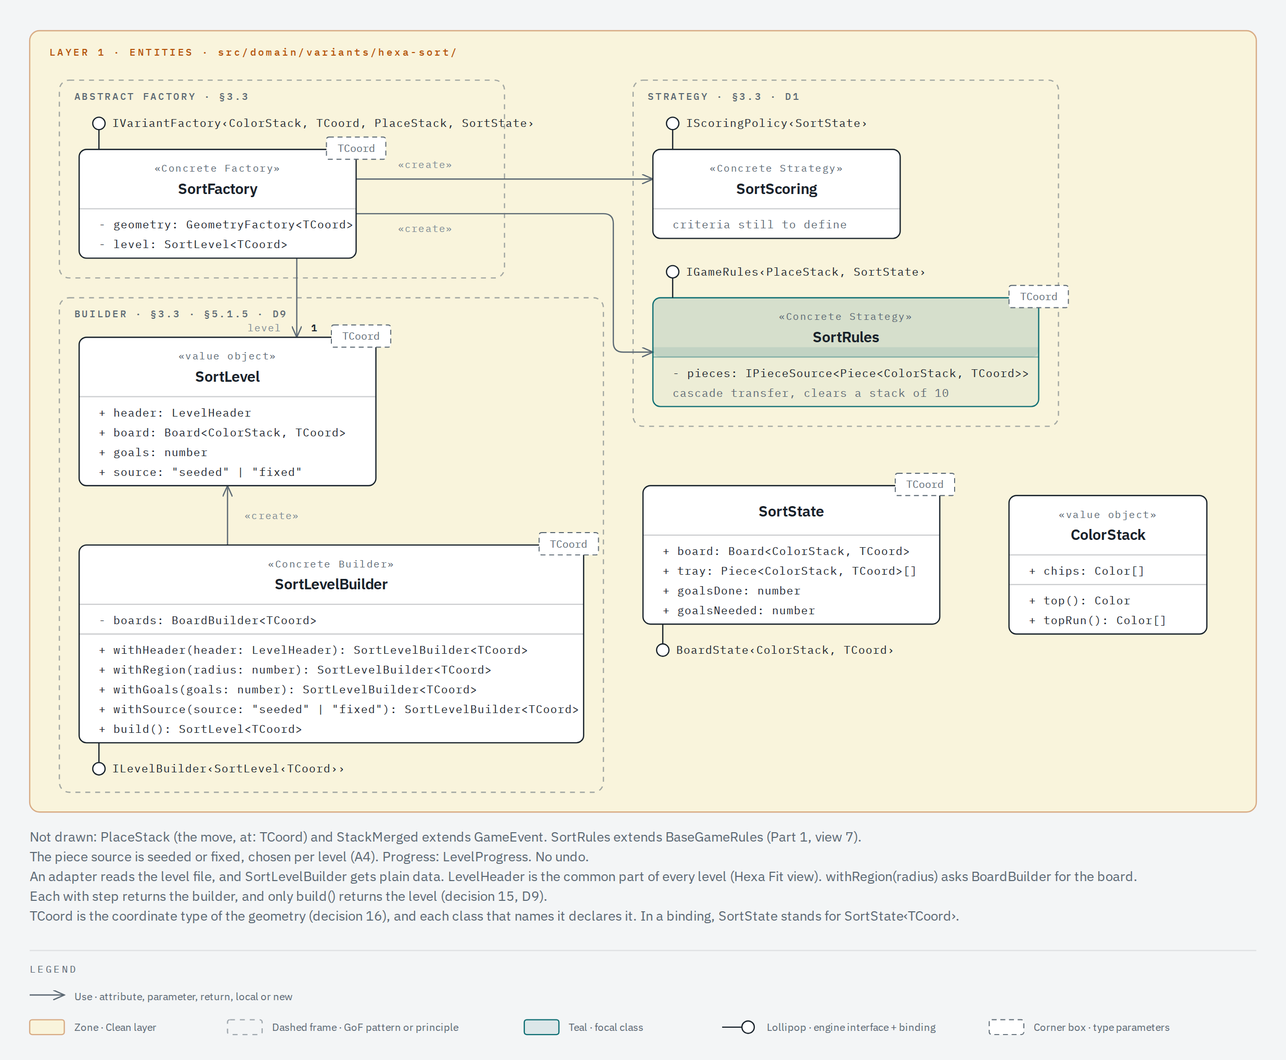
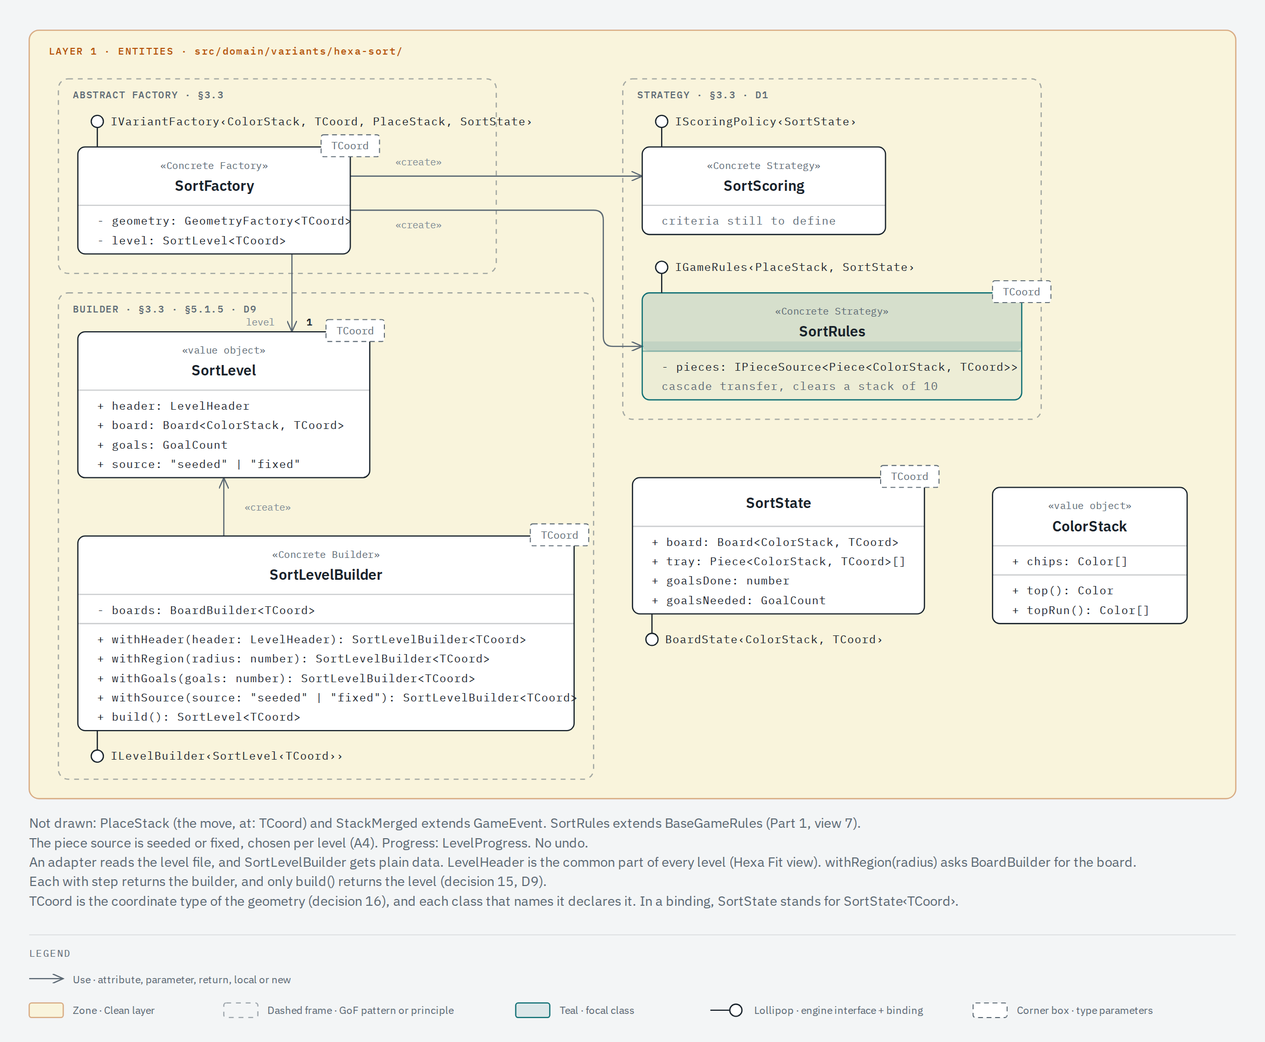
docs(architecture): record Range<T>, GoalCount and the engine Color
Decision 5 is now true in code, and decision 38 records Range<T> and GoalCount.
D21 and APP-NFR-25 state the goal and color rules. The Sort view types the goal
as GoalCount.

Closes #129

diff --git a/docs/architecture/classes/views/variant-3-sort.html b/docs/architecture/classes/views/variant-3-sort.html
@@ -483,7 +483,7 @@
           + goalsDone: number
         </text>
         <text x="536" y="496" fill="#17212a" font-size="9" font-family="'IBM Plex Mono', monospace">
-          + goalsNeeded: number
+          + goalsNeeded: GoalCount
         </text>
 
         <!-- Class: ColorStack (value object) -->
@@ -569,7 +569,7 @@
           + board: Board&lt;ColorStack, TCoord&gt;
         </text>
         <text x="80" y="368" fill="#17212a" font-size="9" font-family="'IBM Plex Mono', monospace">
-          + goals: number
+          + goals: GoalCount
         </text>
         <text x="80" y="384" fill="#17212a" font-size="9" font-family="'IBM Plex Mono', monospace">
           + source: "seeded" | "fixed"

diff --git a/docs/architecture/classes.md b/docs/architecture/classes.md
@@ -87,12 +87,12 @@ This page answers statement §4.1 for the client. It shows the generic types in 
 
 ![Hexa Merge: MergeRules with the bounded generic TCell extends IMergeable](classes/views/variant-4-merge.png)
 
-| Variant    | `TCell`                      | `TMove`                                    | `TState`                | Undo                        | Piece source                           | Progress                   |
-| ---------- | ---------------------------- | ------------------------------------------ | ----------------------- | --------------------------- | -------------------------------------- | -------------------------- |
-| Hexa Lines | `Color`                      | `PlacePiece`                               | `LinesState`            | none                        | `SeededPieceSource`                    | `HighScoreProgress`        |
-| Hexa Fit   | `PieceId`                    | `FitMove`: place, remove or rotate a piece | `FitState`              | `RedoableHistory`, no limit | `FixedListPieceSource`                 | `LevelProgress` with stars |
-| Hexa Sort  | `ColorStack`                 | `PlaceStack`                               | `SortState`             | none                        | seeded or fixed, chosen per level (A4) | `LevelProgress` with stars |
-| Hexa Merge | `MergeTile`, an `IMergeable` | `Slide`                                    | `MergeState<MergeTile>` | `MoveHistory`, limit 1      | `SeededPieceSource`, tiles of 2 or 4   | `HighScoreProgress`        |
+| Variant    | `TCell`                              | `TMove`                                    | `TState`                | Undo                        | Piece source                           | Progress                   |
+| ---------- | ------------------------------------ | ------------------------------------------ | ----------------------- | --------------------------- | -------------------------------------- | -------------------------- |
+| Hexa Lines | `Color` of the engine                | `PlacePiece`                               | `LinesState`            | none                        | `SeededPieceSource`                    | `HighScoreProgress`        |
+| Hexa Fit   | `PieceId`                            | `FitMove`: place, remove or rotate a piece | `FitState`              | `RedoableHistory`, no limit | `FixedListPieceSource`                 | `LevelProgress` with stars |
+| Hexa Sort  | `ColorStack` of engine `Color` tiles | `PlaceStack`                               | `SortState`             | none                        | seeded or fixed, chosen per level (A4) | `LevelProgress` with stars |
+| Hexa Merge | `MergeTile`, an `IMergeable`         | `Slide`                                    | `MergeState<MergeTile>` | `MoveHistory`, limit 1      | `SeededPieceSource`, tiles of 2 or 4   | `HighScoreProgress`        |
 
 The variant classes stay generic over `TCoord`, like the engine, so a variant runs on any geometry (decisions 16 and 17). Each variant class that names `TCoord` declares it in its template box. Each variant factory keeps the `GeometryFactory<TCoord>` it receives in its `geometry` attribute. Today the composition root passes `HexGeometry`, so a running game binds `TCoord` to `HexCoord`. In a lollipop binding, a variant state such as `LinesState` stands for `LinesState<TCoord>`. Hexa Lines and the other game names stay as display names. The class names drop the `Hexa` prefix.
 
@@ -201,7 +201,7 @@ Two patterns outside the fourteen are named on purpose. Memento lives inside the
 2. **`GamePhase`, not `GameState`.** The State pattern classes are phases, because `TState` already names the state of a game. [layers.md](layers.md) uses the same name.
 3. **Undo is optional per variant.** `GameEngine` holds zero or one `MoveHistory`, and the variant factory decides. Fit gets `RedoableHistory` with no limit, Merge gets `MoveHistory` with limit 1, and Lines and Sort get none. So Hexa Lines never implements `IUndoable` (§3.2). The engine gives each capability through `undoable()` and `redoable()` (decision 27).
 4. **`IRedoable` is our addition.** The statement lists `IUndoable`, `ITimed` and `IRandomSeeded`. Merge undoes one move and never redoes, so redo gets its own interface (§3.2 ISP, §5.1.8).
-5. **`Color` and `GameId` live in the engine.** Lines and Sort both use `Color`, and rule `variants-isolated` forbids one variant from importing another. `GameId` is open, so a new variant does not change it (decision 30).
+5. **`Color` and `GameId` live in the engine.** Lines and Sort both use `Color`, and rule `variants-isolated` forbids one variant from importing another. `GameId` is open, so a new variant does not change it (decision 30). Since issue #129 the code holds it: `Color.of(name)` in `src/domain/engine/color.ts` rejects an empty or blank name with a `RangeError`, and `equals()` compares two colors by name, because `of()` makes a new object on each call. A Lines cell is a `Color`, and each tile of a Sort `ColorStack` is a `Color`.
 6. **One piece type for the four variants.** Every piece is a `Piece<TCell, TCoord>`: a shape plus the content it puts on the board. A Sort piece is one cell with a stack, and a Merge spawn is one cell with a tile. So `IPieceSource<Piece<TCell, TCoord>>` serves the four variants.
 7. **The board changes in place.** `Board.set()` changes the board, and `clone()` takes the snapshot for undo and for the piece preview. The alternative is an immutable board, where each move returns a new board. Then undo keeps the old board, and Prototype applies only to pieces. A cell is a value: `clone()` copies the references to the cells and shares the cell objects, so nobody changes a cell in place. `BoardShape.of()` rejects an empty shape with a `RangeError`. `BoardShape` has no topology, so it cannot compare two coordinates: the `Board` constructor rejects a shape where two coordinates have the same `GridTopology.key()`, which also catches a topology whose keys collide.
 8. **The Merge rules are generic.** `MergeRules<TCell extends IMergeable<TCell>>` is the bounded generic of §3.1. The Merge factory binds it to `MergeTile`. Only one cell type uses it today. The bound states which capability the rules need from a cell.
@@ -234,6 +234,7 @@ Two patterns outside the fourteen are named on purpose. Memento lives inside the
 35. **No Visitor and no Mediator.** D3 allows a Visitor only inside the shape Composite, where the node types are closed and the operations grow. Today `ShapeNode` declares each operation (`cells()`, `area()`, `rotated()` and `translated()`), and no class implements a Visitor. A Visitor over the variants would make every new variant edit every visitor, and that breaks the extensibility test (APP-NFR-06). So the design discards Visitor, and the reasoning of D3 stays as its record. `GameEventBus` is an Observer: it implements `GameEventPublisher` and sends each event to its listeners. It does not coordinate classes that call each other, so the design does not claim Mediator. Team decision D19. Views 2 and 4.3.
 36. **Composite only for shapes, and stars are data.** Composite stays in `ShapeNode`, `CellNode` and `ShapeGroup`, because a piece and a Fit figure are trees of cells (piece shape row of §8). An `EndCondition` composite and a `StarRule` composite were proposed and discarded: no source declares a variation in end conditions or star rules, and D5 asks for a written reason for each abstraction. Fit stars are data. Each level file holds two thresholds per star: a move count and a time. `FitLevelBuilder` reads them from `LevelDefinition` and puts them in the `FitLevel` (decision 24). `LevelProgress` compares the moves and the elapsed time of the `GameResult` with them. Team decision D20. View 2 and the Fit view.
 37. **The `Logger` port takes a log entry, not a message.** `Logger.log(entry: UseCaseLogEntry): void` receives the name of the use case, the outcome (`"success"` or `"failure"`), the elapsed time when `TimingAspect` measures it, and the `UseCaseError` of a failed `Result`. `LoggingAspect` and `TimingAspect` build the entry. `ConsoleLogger`, the adapter in layer 4, writes the text. In the class of 2026-11-02 the professor said that a message parameter makes the caller build the message, and that the message belongs in the implementation of the port, a secondary adapter. So no use case and no aspect formats a message. View 3.1 and the map of Part 3.
+38. **`Range<T>` for two-sided limits, and `GoalCount` for the Sort goal.** `Range<T>` in `src/domain/engine/range.ts` is a closed interval `[min, max]` over any ordered type, with `contains(value: T): boolean`. `Range.of(min, max, compare)` takes a `Compare<T>` function, and `Range.ofNumbers(min, max)` compares numbers. Both throw `RangeError("A Range needs min <= max.")` when min comes after max. It mirrors the `Range<T>` of hexablock-api. The seed of `Mulberry32Random` (0 to 4294967295) and the chance of a 4 of `mergeTileSource()` (0 to 1) check their limits with it, and keep their messages. `GoalCount.of(n)` in `src/domain/variants/hexa-sort/goal-count.ts` holds the goal of a Sort level: a safe integer of 1 or more, with no upper bound (decision on issue #129). A goal of 0 won before the first move, so `SortLevel.goalsNeeded` and `SortState.goalsNeeded` are a `GoalCount`, not a bare number (gaps G108.1 and G116.5). `RegionSize`, `Radius` and `Turns` keep their own checks, because each one is already a value object with one bound.
 
 ## Render the images
 

diff --git a/docs/REQUIREMENTS.md b/docs/REQUIREMENTS.md
@@ -46,7 +46,7 @@ Sections: Lines §1.1, Fit §1.2, Sort §1.3, Merge §1.4, comparison §1.5.
 - **APP-NFR-09 — GoF patterns (§3.3).** Strategy and Abstract Factory (one factory per variant) are mandatory. The statement also lists Builder, Singleton or single-scope injection, Prototype, Composite, Decorator, Adapter, Facade, Observer, Command, State, Template Method and Iterator. Each pattern used has a justification, a code excerpt and a README entry. See D7. _Check:_ the README section "Design Patterns" lists each pattern used with its justification and a link to its file, and Strategy and Abstract Factory are in it.
 - **APP-NFR-10 — Clean Architecture (§3.4).** Four layers with dependencies pointing inward. The whole generic engine and the variant rules live in the entities layer with no external dependency. Use cases are generic, never one copy per game. A layer diagram is an image in the README and an editable source in the repo. In the session of 2026-11-03 the professor named the valid hybrid: Clean plus an architecture made for games, not Hexagonal plus Clean: «no, no, entre hexagonal y clean, perdón, entre clean y alguna arquitectura particular para juegos». A layered architecture that is not Clean is also valid when the team cites its reference and documents it. Every part of the app follows the layers, the presentation layer included: «la arquitectura a todo nivel de tu aplicación». Each layer has a defined meaning and keeps the dependency rule. _Check:_ `pnpm arch` passes, and [`architecture/layers.md`](architecture/layers.md) holds the layer diagram.
 - **APP-NFR-11 — AOP (§3.5).** At least one cross-cutting aspect (logging, centralized errors with retry, profiling, authorization or caching), built as decorators or proxies over the use cases. One aspect on the generic use case covers all four variants. See A2. _Check:_ a test shows that one aspect runs for the four variants, and the use case it wraps has no line of the aspect's code.
-- **APP-NFR-25 — Justified primitive types (professor guidance).** The primitive types in the design tend to zero, and each primitive that stays has a written reason. A `boolean` needs no reason. A closed union or a value object replaces a primitive where the domain allows it: For example, `line('nort', …)` does not compile, and `Radius.of(-1.5)` throws a `RangeError`. Source: the professor's guidance, per Oscar's account of 2026-11-05; the exact wording and the session are not recorded yet. Issue [#86](https://github.com/Hexablock-Suite/hexablock-app/issues/86). _Check:_ gate `test/docs/primitive-types.test.ts` lists every `number` and `string` in the public signatures of `src/domain/engine/` and fails when one has no row, with its reason, in the README table «Primitive types».
+- **APP-NFR-25 — Justified primitive types (professor guidance).** The primitive types in the design tend to zero, and each primitive that stays has a written reason. A `boolean` needs no reason. A closed union or a value object replaces a primitive where the domain allows it: For example, `line('nort', …)` does not compile, and `Radius.of(-1.5)` throws a `RangeError`. The goal of a Sort level is a `GoalCount`, and a Sort tile and a Lines cell are an engine `Color`. A limit with two sides, such as a seed or a goal, checks its value with the generic `Range<T>` and its `contains(value: T): boolean` ([#129](https://github.com/Hexablock-Suite/hexablock-app/issues/129)). Source: the professor's guidance, per Oscar's account of 2026-11-05; the exact wording and the session are not recorded yet. Issue [#86](https://github.com/Hexablock-Suite/hexablock-app/issues/86). _Check:_ gate `test/docs/primitive-types.test.ts` lists every `number` and `string` in the public signatures of `src/domain/engine/` and fails when one has no row, with its reason, in the README table «Primitive types».
 
 ## 4. Tests (non-functional, §3.6)
 
@@ -167,7 +167,7 @@ Each assumption holds under both readings of the statement, or names what change
 - **D18 — Memento in undo (§3.3, §5.1.8).** `MoveCommand.before` is the Memento: the engine is the originator, the cloned state is the memento and `MoveHistory` is the caretaker. Decided by the team on 2026-11-01. See decision 34 in [`architecture/classes.md`](architecture/classes.md).
 - **D19 — No Visitor, no Mediator (§3.3).** Visitor is discarded with the reasoning of D3, and no class implements it. `GameEventBus` is an Observer, not a Mediator. Decided by the team on 2026-11-01. See decision 35 in [`architecture/classes.md`](architecture/classes.md).
 - **D20 — Composite only for shapes; stars as data (§1.2, §3.3).** Composite stays in the piece and figure shapes only. Fit stars are two thresholds per star (moves and time) in the level file, which `FitLevelBuilder` reads. Decided by the team on 2026-11-01. See decision 36 in [`architecture/classes.md`](architecture/classes.md).
-- **D21 — Hexa Sort rules (§1.3).** The proposal of [#56](https://github.com/Hexablock-Suite/hexablock-app/issues/56) is accepted with one change to the tie-break. The whole top run of the color moves, and the amount compared is the size of that top run. A top run of 10 or more removes the whole stack, tiles of other colors below included, and counts one goal (§1.3, «se elimina la pila»). When two stacks have top runs of the same size, the stack whose coordinate key comes first wins. The keys are the topology keys of the board, compared in plain string order (code units), so the result never depends on when a cell was filled or emptied. The proposal broke the tie by the first stack in `board.cells()` order. A cleared cell keeps its old place in that order, so the result depended on the history of the cell (gap G108.3). Accepted on 2026-11-06. `SortRules` (#93) codes these rules.
+- **D21 — Hexa Sort rules (§1.3).** The proposal of [#56](https://github.com/Hexablock-Suite/hexablock-app/issues/56) is accepted with one change to the tie-break. The whole top run of the color moves, and the amount compared is the size of that top run. A top run of 10 or more removes the whole stack, tiles of other colors below included, and counts one goal (§1.3, «se elimina la pila»). When two stacks have top runs of the same size, the stack whose coordinate key comes first wins. The keys are the topology keys of the board, compared in plain string order (code units), so the result never depends on when a cell was filled or emptied. The proposal broke the tie by the first stack in `board.cells()` order. A cleared cell keeps its old place in that order, so the result depended on the history of the cell (gap G108.3). Accepted on 2026-11-06. `SortRules` (#93) codes these rules. The goal of a level is a whole number of 1 or more, with no upper bound: a goal of 0 won the game before the first move (gaps G108.1 and G116.5). Each tile has a color with a name, so a tile with an empty color name is an error (gap G108.2). Decided on [#129](https://github.com/Hexablock-Suite/hexablock-app/issues/129) on 2026-11-06.
 - **D22 — Scoring per variant (§5.1.6).** The proposal of [#59](https://github.com/Hexablock-Suite/hexablock-app/issues/59) is accepted as it stands for Lines, Merge and Fit, and Sort also gets stars by moves. Lines gives 1 point per placed cell and 10 per cleared line, and `ComboMultiplierDecorator` multiplies the line bonus by `lines + streak - 1`. Merge gives the sum of the values that the merges of a slide make, and the new tile adds nothing. Fit gives no points per turn, and a star needs both of its thresholds, the moves and the time (`fitStars`). Sort gives 10 points per tile of each stack that the turn clears, as proposed. A won Sort level also gets stars by moves: each star has one threshold, `maxMoves`, and the play meets it when its moves are at most `maxMoves`. The level file holds the thresholds, as it does for Fit (D20), and the caller counts the moves. The Sort stars are cumulative: star N needs star N-1, so a play gets one star for each leading threshold that it meets (`sortStars`). The threshold shape, the place of the thresholds and the cumulative count are implementation choices of this decision. Accepted on 2026-11-06. `LinesScoring`, `ComboMultiplierDecorator` and `MergeScoring` (#97), and `SortScoring`, `sortStars`, `FitScoring` and `fitStars` (#98) code these rules.
 
 ### Still to define (team)

diff --git a/CHANGELOG.md b/CHANGELOG.md
@@ -8,6 +8,7 @@ Each sprint of [`docs/ROADMAP.md`](docs/ROADMAP.md) closes with a version sectio
 
 ### Added
 
+- The value objects `GoalCount` and `Range<T>`, and `Color` in the engine ([#129](https://github.com/Hexablock-Suite/hexablock-app/issues/129), APP-NFR-25). `Range<T>` in `src/domain/engine/range.ts` is a closed interval `[min, max]` over any ordered type, with `contains(value: T): boolean`. It mirrors the `Range<T>` of hexablock-api: `Range.of(min, max, compare)`, `Range.ofNumbers(min, max)` and the message «A Range needs min <= max.». The seed of `Mulberry32Random` and the chance of a 4 of `mergeTileSource()` check their limits with it, and keep their messages. `GoalCount.of(n)` in `src/domain/variants/hexa-sort/goal-count.ts` holds the goal of a Sort level: a safe integer of 1 or more, with no upper bound, as the decision on #129 records. `SortLevel.goalsNeeded` and `SortState.start()` take a `GoalCount`, so a level with a goal of 0, which won before the first move, cannot be built (gaps G108.1 and G116.5). `Color` moves from `src/domain/variants/hexa-lines/color.ts` to `src/domain/engine/color.ts` (classes.md decision 5) and adds `equals()`. Hexa Sort drops its `type Color = string`: each tile of a `ColorStack` is an engine `Color`, so a tile with an empty color name throws «A color needs a name.» as in Lines (gap G108.2), and the cascade compares colors with `equals()`. The README «Primitive types» table, `docs/architecture/classes.md` (decision 5 and the new decision 38), the Sort class view, D21 and APP-NFR-25 in `docs/REQUIREMENTS.md` say the same. The suites `test/domain/engine/range.test.ts` and `test/domain/variants/hexa-sort/goal-count.test.ts` and new cases in `closed-types.test.ts`, `sort-rules.test.ts` and `sort-factory.test.ts` cover the rules.
 - Stars by moves for Hexa Sort and the accepted scoring of each variant ([#59](https://github.com/Hexablock-Suite/hexablock-app/issues/59), APP-FR-06). Decision D22 in `docs/REQUIREMENTS.md` accepts the scoring proposal of #59 as it stands for Lines, Merge and Fit, and adds stars by moves to Sort. The pure function `sortStars(play, thresholds)` in `src/domain/variants/hexa-sort/sort-stars.ts` counts the stars of a won Sort level: each star has one `maxMoves` threshold, which the level file holds, and the stars are cumulative, so star N needs star N-1. The caller counts the moves. The DS-6 summary adds `stars` to the Sort section. The README section «Scoring» and the scoring comments now state the accepted rule, not a proposal, and the gate `test/docs/scoring-docs.test.ts` now checks that the section names D22 and no longer calls the scoring a proposal. The Sort progress in `docs/architecture/classes.md` gets stars. «Still to define» keeps only the leaderboard order (DS-4) and the Fit moves ([#60](https://github.com/Hexablock-Suite/hexablock-app/issues/60)). The suite `test/domain/variants/hexa-sort/sort-stars.test.ts` covers every star, no star, an exact threshold and the cumulative count.
 - Tests for the review gaps of the Sprint 2 queue ([#120](https://github.com/Hexablock-Suite/hexablock-app/issues/120)): 67 of the 96 gaps that the walkthrough found in #90 and #105 to #119 now have a test, and each new test fails on a mutation of the code it guards. Five gate and doc checks learn cases that their rule text already names: impossible dates and repeated versions in the CHANGELOG, a requirement listed in two ROADMAP sprints, a namespace import of `Board`, and game-id branches through `&&`, `||`, `??`, lookup tables, constants and `.tsx` files in subfolders. The other 29 gaps have no test: 2 defects, 18 open team questions and 9 that only the type checker or a document shows; the pull request lists each one.
 - The README section «Scoring» under «Generic Engine» ([#104](https://github.com/Hexablock-Suite/hexablock-app/issues/104), APP-FR-06): one subsection per variant with its formula, each constant by name and value, a link to each scoring file and one worked example from the scoring tests. The section marks every value as the proposal on [#59](https://github.com/Hexablock-Suite/hexablock-app/issues/59), «Propuesta, pendiente del equipo», and names the open points #60 and DS-4. The gate `test/docs/scoring-docs.test.ts` checks that the section names the four variants, links the six scoring files, states each constant with the value that the code exports, and keeps the proposal mark.

diff --git a/AI_USAGE.md b/AI_USAGE.md
@@ -71,6 +71,7 @@ TODO: add one entry per task: date, task, tool, prompt summary, what was kept an
 | 2026-11-06 | #124: close the known gaps of the rules-suite and bounds gates                   | Claude Code | Claude Code with Claude Opus 5.5 widened the rules-suite gate to mock paths, spies and literal doubles, extended the bounds gate to the variants with the missing README rows, and wrote the accepted gaps in APP-NFR-01, APP-NFR-12 and R-rules-suite; each new gate test was seen failing first; a human reviews the PR                                                                                                                        | Pending team review   |
 | 2026-11-06 | #59: Sort stars by moves and the accepted scoring of each variant                | Claude Code | Claude Code with Claude Opus 5.5 wrote `sortStars` with cumulative stars by moves, decision D22 and the docs from the team choice on the scoring of #59; the star tests and the D22 check of the scoring docs gate were seen failing first; a human reviews the PR                                                                                                                                                                               | Pending team review   |
 | 2026-11-06 | #127: DS-4 closed, the best level result in the canonical file                   | Claude Code | Claude Code with Claude Opus 5.5 recorded DS-4 and DS-12 as closed in the canonical requirements (more stars, then fewer moves, then less time; a full tie keeps the stored result), removed DS-4 from «Still to define», aligned the README «Scoring» note, and wrote the RED docs gate test first; a human reviews the PR                                                                                                                      | Pending team review   |
+| 2026-11-06 | #129: Sort goal as `GoalCount`, `Color` in the engine and `Range<T>`             | Claude Code | Claude Code with Claude Opus 5.5 wrote `Range<T>` after the hexablock-api one, moved the seed and the chance of a 4 onto it, moved `Color` to the engine with `equals()`, and wrapped the Sort goal in `GoalCount` from the team choice and the range decision on #129; each new rule test was seen failing first; a human reviews the PR                                                                                                        | Pending team review   |
 
 ## Critical Evaluation
 
